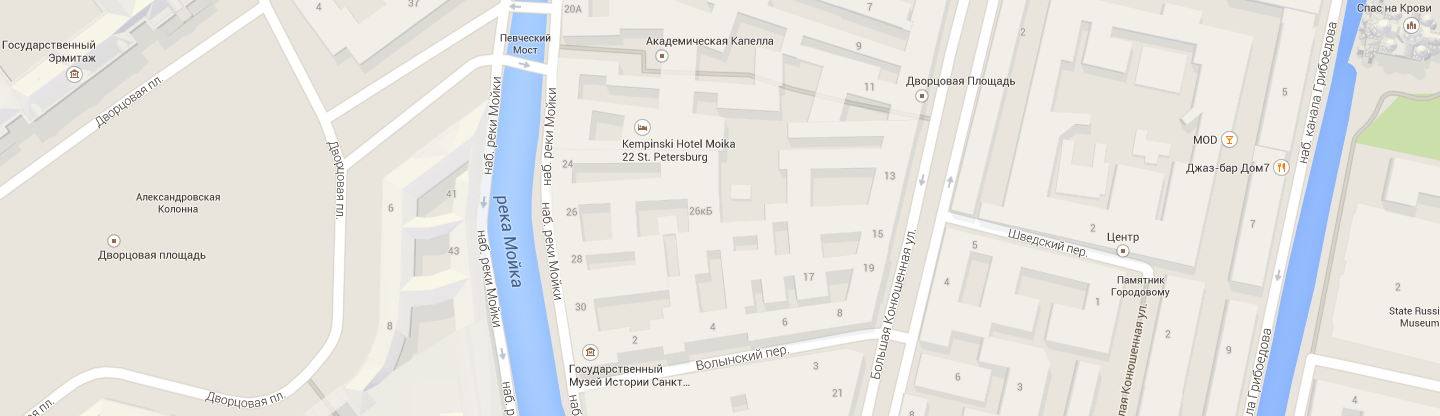
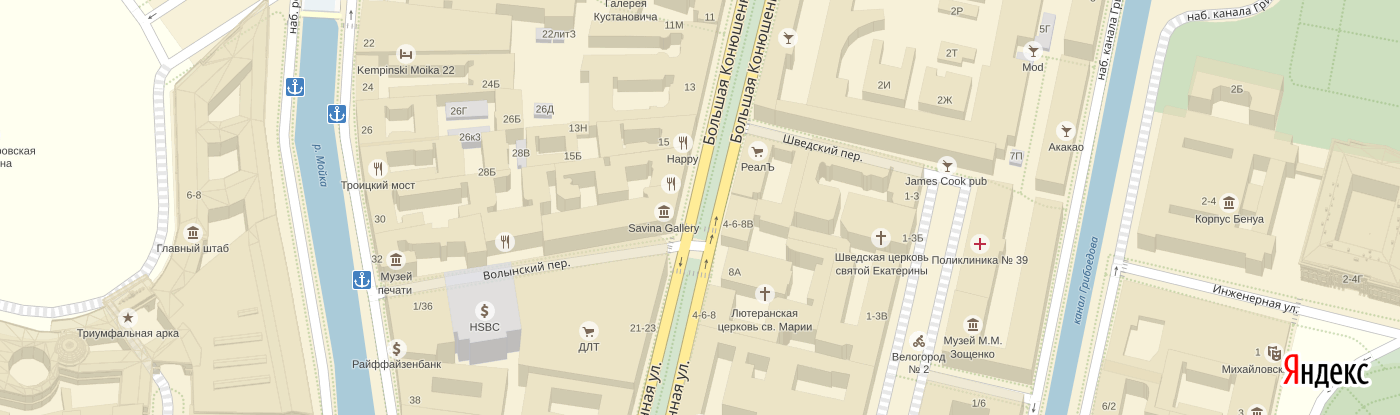
Исправление ошибок декоративных элементов
Удалил ненужные изображения, которые заменил спрайтом.
Отрредактировал css по radio и checkbox.
Изменил карту с iframe на script.

diff --git a/index.html b/index.html
@@ -123,6 +123,7 @@
         </div>
     </main>
     <div class="map">
+        <script type="text/javascript" charset="utf-8" async src="https://api-maps.yandex.ru/services/constructor/1.0/js/?sid=0tcrEx35JmEAvmiLTH060-GsRwIgWrO1&amp;width=100%25&amp;height=415&amp;lang=ru_RU&amp;sourceType=constructor&amp;scroll=true"></script>
         <div class="container clearfix">
             <div class="contacts">
                 <h3>NЁrds design studio</h3>
@@ -134,11 +135,10 @@
                 </p>
                 <a class="btn feedback-open" href="#">Напишите нам</a>
             </div>
-            <div class="marker-map">
+            <!--<div class="marker-map">
                 <img src="img/map-marker.png" alt="map-marker" width="367" height="190">
-            </div>
+            </div>-->
         </div>
-        <iframe class="real-map" src="https://www.google.com/maps/embed?pb=!1m18!1m12!1m3!1d1998.6037999040354!2d30.322010416394033!3d59.938716271971415!2m3!1f0!2f0!3f0!3m2!1i1024!2i768!4f13.1!3m3!1m2!1s0x4696310fca5ba729%3A0xea9c53d4493c879f!2sBolshaya+Konyushennaya+ul.%2C+19%2C+Sankt-Peterburg%2C+Russia%2C+191186!5e0!3m2!1sen!2s!4v1441888483426" width="1583" height="415" frameborder="0" style="border:0" allowfullscreen></iframe>
     </div>
     <div class="feedback">
         <b>Напишите нам</b>
@@ -168,7 +168,6 @@
                 <a class="social-btn social-facebook" href="https://facebook.com/htmlacademy">Фейсбук</a>
                 <a class="social-btn social-instagram" href="https://instagram.com/htmlacademy">Инстаграм</a>
             </div>
-
             <div class="discount">
                 <h4>Давайте дружить, это выгодно!</h4>
                 <p>Скидка 10% для друзей из социальных сетей.</p>
@@ -181,8 +180,8 @@
         var popup = document.querySelector(".feedback");
         var close = popup.querySelector(".btn-close");
         
-        var form = popup.querySelector("feedback-form");
-        var login = popup.querySelector("[name=username]");
+        var form = popup.querySelector(".feedback-form");
+        var username = popup.querySelector("[name=username]");
         var email = popup.querySelector("[name=e-mail]");
         
         var storage = localStorage.getItem("login");
@@ -192,10 +191,10 @@
             popup.classList.add("feedback-show");
 
             if (storage) {
-                login.value = storage;
+                username.value = storage;
                 password.focus();
             } else {
-                login.focus();
+                username.focus();
             }
             
         }); //Открытие формы
@@ -206,42 +205,48 @@
         }); //Закрытие формы
         
         form.addEventListener("submit", function(event) {
-            if (!login.value || !email.value) {
+            if (!username.value || !password.value) {
                 event.preventDefault();
-                popup.classList.remove("feedback-error");
-                popup.offsetWidth = popup.offsetWidth;
-                popup.classList.add("feedback-error");
+                username.classList.remove("feedback-error");
+                username.offsetWidth = popup.offsetWidth;
+                username.classList.add("feedback-error");
             } else {
-                localStorage.setItem("login", login.value);
+                localStorage.setItem("username", login.value);
             }
         }); //Изменение события отправки формы
         
         window.addEventListener("keydown", function(event) {
-        if (event.keyCode === 27) {
-            if (popup.classList.contains("feedback-show")) {
-            popup.classList.remove("feedback-show");
-          }
-        }
-      });
-  
-        /*******МАРКЕР_КАРТЫ*********/
-        /*function initMap() {
-            var centerLatLng = new google.maps.LatLng(59.9390358, 30.3219136);
-            var mapOptions = {
-                center: centerLatLng,
-                zoom: 8
-            };
-
-            var map = new google.maps.Map(document.querySelector(".real-map"), mapOptions);
-            var image = "img/map-marker.png";
-            // Добавляем маркер
-            var marker = new google.maps.Marker({
-            position: centerLatLng, // Координаты расположения маркера.
-            map: map, // Карта на которую нужно добавить маркер
-            icon: image
-            });
+            if (event.keyCode === 27) {
+                if (popup.classList.contains("feedback-show")) {
+                popup.classList.remove("feedback-show");
+              }
             }
-        google.maps.event.addDomListener(window, "load", initMap);*/
+        });
+  
+       ymaps.ready(function () {
+        var myMap = new ymaps.Map("map", {
+            center: [59.938414, 30.323072],
+            zoom: 17
+        }, {
+            searchControlProvider: "yandex#search"
+        }),
+        myPlacemark = new ymaps.Placemark(myMap.getCenter(), {
+            hintContent: "NЁRDS DESIGN STUDIO"
+        }, {
+            // Опции.
+            // Необходимо указать данный тип макета.
+            iconLayout: "default#image",
+            // Своё изображение иконки метки.
+            iconImageHref: "http://www.market4game.ru/data/avatars/m/38/38283.jpg?1424789567",
+            // Размеры метки.
+            iconImageSize: [48, 48],
+            // Смещение левого верхнего угла иконки относительно
+            // её "ножки" (точки привязки).
+            iconImageOffset: [0,0]
+        });
+
+        myMap.geoObjects.add(myPlacemark);
+        });
     </script>
 </body>
 </html>

diff --git a/css/style.css b/css/style.css
@@ -384,7 +384,7 @@ nav {
     padding-bottom: 80px;
     background-image: url("../img/map-location.png");
 }
-
+/*************************************************По окончанию за ненужностью удалить
 .real-map {
     position: absolute;
     top: 0;
@@ -392,16 +392,19 @@ nav {
     width: 1583px;
     height: 415px;
 }
+*/
 
 .map img {
     margin-right: 0;
 }
-
+/*************************************************По окончанию за ненужностью удалить
 .marker-map img {
     position: relative;
     top: 90px;
     left: 545px;
 }
+*/
+
 .contacts {
     position: absolute;
     width: 220px;
@@ -430,6 +433,7 @@ nav {
 }
 
 .main-footer {
+    margin-top: 40px;
     min-height: 160px;
 }
 
@@ -535,106 +539,57 @@ input[type="checkbox"] {
 }
 
 /********КНОПКИ ЛЕЙБЛОВ***********/
-input[type="radio"]+label::before {
-    content: "";
-    display: block;
-    position: absolute;
-    top: -1px;
-    left: 0px;
-    background-image: url("../img/radio-check-sprite.png");
-    background-repeat: no-repeat;
-    background-position: -100px -13px;
-    width: 25px;
-    height: 25px;
-    opacity: 0.5;
-    cursor: pointer;
-}
+input[type="radio"]+label::before { 
+    content: ""; 
+    display: block; 
+    position: absolute; 
+    top: -1px; 
+    left: 0px; 
+    background-image: url("../img/radio-check-sprite.png"); 
+    background-repeat: no-repeat; 
+    background-position: -100px -13px; /*-10px -13px;*/
+    width: 25px; 
+    height: 25px; 
+    opacity: 0.5; 
+    cursor: pointer; 
+} 
 
-input[type="radio"]:checked+label::after {
-    content: "";
-    display: block;
-    position: absolute;
-    top: -1px;
-    left: 0px;
-    background-image: url("../img/radio-check-sprite.png");
-    background-repeat: no-repeat;
-    background-position: -145px -13px;
-    width: 25px;
-    height: 25px;
-    opacity: 0.5;
-    cursor: pointer;
-}
+input[type="radio"]:checked+label::before { 
+    background-position: -145px -13px; /*-54px -13px;*/
+    opacity: 0.5; 
+    cursor: pointer; 
+} 
 
-input[type="radio"]+label:hover::before {
-    background-image: url("../img/radio-check-sprite.png");
-    background-repeat: no-repeat;
-    background-position: -100px -13px;
-    width: 25px;
-    height: 25px;
-    opacity: 1;
-    cursor: pointer;
-}
-
-input[type="radio"]+label:hover::after {
-    background-image: url("../img/radio-check-sprite.png");
-    background-repeat: no-repeat;
-    background-position: -145px -13px;
-    width: 25px;
-    height: 25px;
-    opacity: 1;
-    cursor: pointer;
+input[type="radio"]+label:hover::before { 
+    opacity: 1; 
 }
 
 
 
 input[type="checkbox"]+label::before {
-    content: "";
-    display: block;
-    position: absolute;
-    top: -1px;
-    left: 0px;
-    background-image: url("../img/radio-check-sprite.png");
-    background-repeat: no-repeat;
-    background-position: -10px -13px;
-    width: 25px;
-    height: 25px;
-    opacity: 0.4;
-    cursor: pointer;
+    content: ""; 
+    display: block; 
+    position: absolute; 
+    top: -1px; 
+    left: 0px; 
+    background-image: url("../img/radio-check-sprite.png"); 
+    background-repeat: no-repeat; 
+    background-position: -11px -13px;
+    width: 25px; 
+    height: 25px; 
+    opacity: 0.5; 
+    cursor: pointer; 
 }
 
-input[type="checkbox"]:checked+label::after {
-    content: "";
-    display: block;
-    position: absolute;
-    top: -1px;
-    left: 0px;
-    background-image: url("../img/radio-check-sprite.png");
-    background-repeat: no-repeat;
+
+input[type="checkbox"]:checked+label::before {
     background-position: -54px -13px;
-    width: 25px;
-    height: 25px;
-    opacity: 0.4;
-    cursor: pointer;
+    opacity: 0.5; 
+    cursor: pointer; 
 }
 
-input[type="checkbox"]+label:hover::before {
-    background-image: url("../img/radio-check-sprite.png");
-    background-repeat: no-repeat;
-    background-position: -10px -13px;
-    width: 25px;
-    height: 25px;
-    opacity: 0.7;
-    cursor: pointer;
-}
-
-input[type="checkbox"]+label:hover::after {
-    background-image: url("../img/radio-check-sprite.png");
-    background-repeat: no-repeat;
-    background-position: -54px -13px;
-    width: 25px;
-    height: 25px;
-    opacity: 0.7;
-    cursor: pointer;
+input[type="checkbox"]+label:hover::before { 
+    opacity: 1; 
 }
 
 /********КНОПКИ ЛЕЙБЛОВ***********/
@@ -880,6 +835,18 @@ input[type="checkbox"]+label:hover::after {
   }
 }
 
+@keyframes shake {
+  0%, 100% {
+    transform: translateX(0);
+  }
+  10%, 30%, 50%, 70%, 90% {
+    transform: translateX(-10px);
+  }
+  20%, 40%, 60%, 80% {
+    transform: translateX(10px);
+  }
+}
+
 .feedback {
     position: fixed;
     left: 310px;
@@ -901,8 +868,10 @@ input[type="checkbox"]+label:hover::after {
 
 /*********ОШИБКА ВВОДА ДАННЫХ*************/
 .feedback-error {
+    animation: shake 0.6s;
     border: 2px solid #e74246;
     color: #e74246;
+
 }
 
 .feedback b {

diff --git a/catalog.html b/catalog.html
@@ -176,6 +176,7 @@
         </div>
     </main>
     <div class="map">
+        <script type="text/javascript" charset="utf-8" async src="https://api-maps.yandex.ru/services/constructor/1.0/js/?sid=0tcrEx35JmEAvmiLTH060-GsRwIgWrO1&amp;width=100%25&amp;height=415&amp;lang=ru_RU&amp;sourceType=constructor&amp;scroll=true"></script>
         <div class="container clearfix">
             <div class="contacts">
                 <h3>NЁrds design studio</h3>
@@ -187,11 +188,10 @@
                 </p>
                 <a class="btn feedback-open" href="#">Напишите нам</a>
             </div>
-            <div class="marker-map">
+            <!--<div class="marker-map">
                 <img src="img/map-marker.png" alt="map-marker" width="367" height="190">
-            </div>
+            </div>-->
         </div>
-        <iframe class="real-map" src="https://www.google.com/maps/embed?pb=!1m18!1m12!1m3!1d1998.6037999040354!2d30.322010416394033!3d59.938716271971415!2m3!1f0!2f0!3f0!3m2!1i1024!2i768!4f13.1!3m3!1m2!1s0x4696310fca5ba729%3A0xea9c53d4493c879f!2sBolshaya+Konyushennaya+ul.%2C+19%2C+Sankt-Peterburg%2C+Russia%2C+191186!5e0!3m2!1sen!2s!4v1441888483426" width="1583" height="415" frameborder="0" style="border:0" allowfullscreen></iframe>
     </div>
     <div class="feedback">
         <b>Напишите нам</b>
